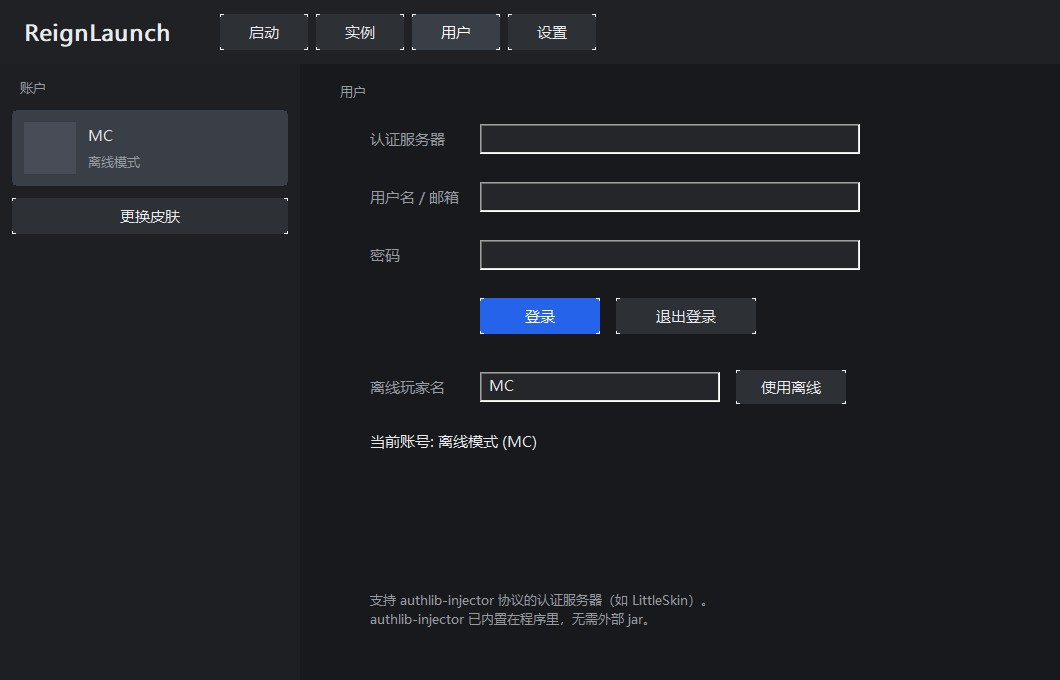
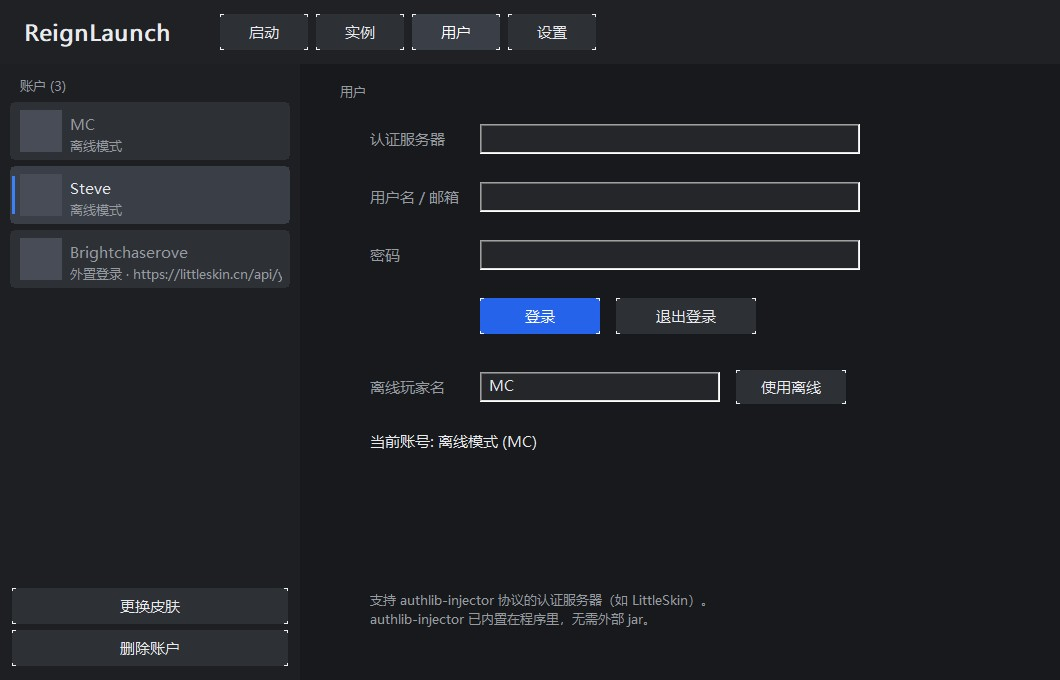
feat: multi-account support (offline + third-party), account list UI

Changed region(s): [[0.0, 0.1544, 0.2802, 0.4324], [0.0934, 0.8647, 0.1868, 0.9882], [0.0311, 0.1235, 0.0623, 0.1544]]

diff --git a/src/ReignLaunch.cpp b/src/ReignLaunch.cpp
@@ -49,7 +49,18 @@ using json = nlohmann::json;
 enum Page { PAGE_LAUNCH = 0, PAGE_USER = 1, PAGE_SETTINGS = 2, PAGE_ABOUT = 3, PAGE_INSTANCES = 4 };
 
 // ============================ 配置 ============================
+struct Account {
+    std::string type;    // offline / thirdparty
+    std::string name;
+    std::string server;
+    std::string token;
+    std::string uuid;
+    std::string skin;    // 该账户的皮肤 PNG
+};
+
 struct Config {
+    std::vector<Account> accounts;
+    int activeAcc = -1;
     std::string gameDir;
     std::string skinPath;   // 当前皮肤 PNG
     int  isoMode = 0;               // 版本隔离：0=隔离所有实例 1=仅模组实例 2=不隔离
@@ -103,7 +114,7 @@ static RECT OverlayCardRect();
 static void ApplyOverlayVisibility();
 
 static HWND hLblServer, hEdServer, hLblUser, hEdUser, hLblPass, hEdPass;
-static HWND hBtnLogin, hBtnLogout, hBtnOffline, hBtnSkin;
+static HWND hBtnLogin, hBtnLogout, hBtnOffline, hBtnSkin, hBtnDelAcc;
 
 static HWND hLblDir, hEdDir, hBtnAutoDir, hBtnBrowseDir, hBtnDirDrop;
 static HWND hLblJava, hEdJava, hBtnAutoJava, hBtnBrowseJava, hBtnJavaDrop;
@@ -225,6 +236,21 @@ static void SaveConfig() {
     j["gameDir"]       = g_cfg.gameDir;
     j["isoMode"] = g_cfg.isoMode;
     j["skinPath"] = g_cfg.skinPath;
+    {
+        json arr = json::array();
+        for (auto& a : g_cfg.accounts) {
+            json o;
+            o["type"]   = a.type;
+            o["name"]   = a.name;
+            o["server"] = a.server;
+            o["token"]  = a.token;
+            o["uuid"]   = a.uuid;
+            o["skin"]   = a.skin;
+            arr.push_back(o);
+        }
+        j["accounts"] = arr;
+        j["activeAcc"] = g_cfg.activeAcc;
+    }
     j["javaPath"]      = g_cfg.javaPath;
     j["maxMemMB"]      = g_cfg.maxMemMB;
     j["playerName"]    = g_cfg.playerName;
@@ -246,11 +272,41 @@ static void LoadConfig() {
         g_cfg.gameDir        = j.value("gameDir", std::string());
     g_cfg.isoMode = j.value("isoMode", 0);
     g_cfg.skinPath = j.value("skinPath", std::string());
+
+    g_cfg.activeAcc = j.value("activeAcc", -1);
+    if (j.contains("accounts") && j["accounts"].is_array()) {
+        for (auto& o : j["accounts"]) {
+            Account a;
+            a.type   = o.value("type", std::string("offline"));
+            a.name   = o.value("name", std::string());
+            a.server = o.value("server", std::string());
+            a.token  = o.value("token", std::string());
+            a.uuid   = o.value("uuid", std::string());
+            a.skin   = o.value("skin", std::string());
+            if (!a.name.empty()) g_cfg.accounts.push_back(a);
+        }
+    }
+
     if (j.contains("versionIsolation"))            // 兼容上一版布尔配置
         g_cfg.isoMode = j.value("versionIsolation", true) ? 0 : 2;
         g_cfg.javaPath       = j.value("javaPath", std::string());
         g_cfg.maxMemMB       = j.value("maxMemMB", 4096);
         g_cfg.playerName     = j.value("playerName", std::string("Steve"));
+    // 账户列表为空则用当前单账号迁移（此时 playerName 已读入）
+    if (g_cfg.accounts.empty()) {
+        std::string nm = (g_cfg.authType == "thirdparty") ? g_cfg.authName : g_cfg.playerName;
+        if (!nm.empty()) {
+            Account a;
+            a.type = g_cfg.authType.empty() ? "offline" : g_cfg.authType;
+            a.name = nm;
+            a.server = g_cfg.authServer;
+            a.token = g_cfg.authToken;
+            a.uuid = g_cfg.authUuid;
+            a.skin = g_cfg.skinPath;
+            g_cfg.accounts.push_back(a);
+            g_cfg.activeAcc = 0;
+        }
+    }
         g_cfg.authType       = j.value("authType", std::string("offline"));
         g_cfg.authServer     = j.value("authServer", std::string());
         g_cfg.authToken      = j.value("authToken", std::string());
@@ -1330,6 +1386,7 @@ static std::string        g_loginErr;
 #define ID_BTN_INSTARROW 1317
 #define ID_BTN_OVCANCEL  1330
 #define ID_BTN_SKIN      1340
+#define ID_BTN_DELACC    1341
 #define ID_BTN_SAVE     1320
 #define ID_BTN_ISO      1321
 
@@ -1455,7 +1512,8 @@ static void LayoutControls() {
         MoveWindow(hBtnOffline, x + Scale(366), y + rowH * 4 + Scale(14), Scale(110), Scale(34), TRUE);
 
         RECT sb = g_ly.sidebar;
-        MoveWindow(hBtnSkin, sb.left + Scale(12), sb.top + Scale(134), (sb.right - sb.left) - Scale(24), Scale(36), TRUE);
+        MoveWindow(hBtnSkin, sb.left + Scale(12), sb.bottom - Scale(92), (sb.right - sb.left) - Scale(24), Scale(36), TRUE);
+        MoveWindow(hBtnDelAcc, sb.left + Scale(12), sb.bottom - Scale(50), (sb.right - sb.left) - Scale(24), Scale(36), TRUE);
     }
 
     // 设置页
@@ -1505,7 +1563,7 @@ static void ShowPage(Page p) {
     ApplyOverlayVisibility();
 
     ShowWindow(hEdServer, U); ShowWindow(hEdUser, U); ShowWindow(hEdPass, U);
-    ShowWindow(hBtnLogin, U); ShowWindow(hBtnLogout, U); ShowWindow(hEdName, U); ShowWindow(hBtnOffline, U); ShowWindow(hBtnSkin, U);
+    ShowWindow(hBtnLogin, U); ShowWindow(hBtnLogout, U); ShowWindow(hEdName, U); ShowWindow(hBtnOffline, U); ShowWindow(hBtnSkin, U); ShowWindow(hBtnDelAcc, U);
 
     ShowWindow(hEdDir, S); ShowWindow(hBtnAutoDir, S); ShowWindow(hBtnBrowseDir, S); ShowWindow(hBtnDirDrop, S);
     ShowWindow(hEdJava, S); ShowWindow(hBtnAutoJava, S); ShowWindow(hBtnBrowseJava, S); ShowWindow(hBtnJavaDrop, S);
@@ -1587,6 +1645,48 @@ static bool ApplySkin(const std::string& srcPath, std::wstring& err) {
     SaveConfig();
     LoadSkinBitmap();
     return true;
+}
+// ---- 账户切换 ----
+static void ApplyActiveAccount() {
+    if (g_cfg.activeAcc < 0 || g_cfg.activeAcc >= (int)g_cfg.accounts.size()) return;
+    Account& a = g_cfg.accounts[g_cfg.activeAcc];
+    g_cfg.authType   = a.type;
+    g_cfg.authServer = a.server;
+    g_cfg.authToken  = a.token;
+    g_cfg.authUuid   = a.uuid;
+    if (a.type == "thirdparty") g_cfg.authName = a.name;
+    else                        g_cfg.playerName = a.name;
+    g_cfg.skinPath = a.skin;
+}
+
+static void CaptureActiveAccount() {
+    if (g_cfg.activeAcc < 0 || g_cfg.activeAcc >= (int)g_cfg.accounts.size()) return;
+    Account& a = g_cfg.accounts[g_cfg.activeAcc];
+    a.type   = g_cfg.authType;
+    a.server = g_cfg.authServer;
+    a.token  = g_cfg.authToken;
+    a.uuid   = g_cfg.authUuid;
+    a.skin   = g_cfg.skinPath;
+    if (a.type == "thirdparty") a.name = g_cfg.authName;
+    else                        a.name = g_cfg.playerName;
+}
+
+// 找一个同名账户，找不到就新建；返回下标
+static int UpsertAccount(const std::string& type, const std::string& name,
+                         const std::string& server = "", const std::string& token = "",
+                         const std::string& uuid = "") {
+    for (size_t i = 0; i < g_cfg.accounts.size(); ++i) {
+        if (g_cfg.accounts[i].name == name && g_cfg.accounts[i].type == type) {
+            g_cfg.accounts[i].server = server;
+            g_cfg.accounts[i].token  = token;
+            g_cfg.accounts[i].uuid   = uuid;
+            return (int)i;
+        }
+    }
+    Account a;
+    a.type = type; a.name = name; a.server = server; a.token = token; a.uuid = uuid;
+    g_cfg.accounts.push_back(a);
+    return (int)g_cfg.accounts.size() - 1;
 }
 // ---------------- 检测候选列表 ----------------
 struct Cand { std::string path; std::string label; };
@@ -2009,29 +2109,48 @@ static void PaintMain(HDC dc, int w, int h) {
         }
     }
     else if (g_page == PAGE_USER) {
-        // 左侧账户卡片
+        // 左侧账户列表
         {
             RECT sb = g_ly.sidebar;
             HBRUSH bg = CreateSolidBrush(RGB(30, 31, 35));
             FillRect(dc, &sb, bg);
             DeleteObject(bg);
 
-            RECT lb = { sb.left + Scale(20), sb.top + Scale(12), sb.right, sb.top + Scale(36) };
-            DrawTextIn(dc, L"账户", lb, C_DIM, g_fSmall);
+            RECT lb = { sb.left + Scale(20), sb.top + Scale(10), sb.right, sb.top + Scale(34) };
+            DrawTextIn(dc, L"账户 (" + std::to_wstring(g_cfg.accounts.size()) + L")", lb, C_DIM, g_fSmall);
 
-            RECT card = { sb.left + Scale(12), sb.top + Scale(46), sb.right - Scale(12), sb.top + Scale(46) + Scale(76) };
-            FillRoundRect(dc, card, 8, C_CARD_SEL);
-            DrawAvatar(dc, card.left + Scale(12), card.top + Scale(12), Scale(52));
+            int itemH = Scale(64);
+            int y = sb.top + Scale(38);
+            for (size_t i = 0; i < g_cfg.accounts.size(); ++i) {
+                RECT card = { sb.left + Scale(10), y, sb.right - Scale(10), y + itemH - Scale(6) };
+                bool sel = ((int)i == g_cfg.activeAcc);
+                FillRoundRect(dc, card, 8, sel ? C_CARD_SEL : C_CARD);
 
-            std::wstring nm = U8ToW(CurrentPlayerName());
-            RECT n1 = { card.left + Scale(76), card.top + Scale(12), card.right - Scale(8), card.top + Scale(38) };
-            DrawTextIn(dc, nm, n1, C_TEXT, g_fUi);
+                DrawAvatar(dc, card.left + Scale(10), card.top + Scale(8), Scale(42));
 
-            std::wstring ty = (g_cfg.authType == "thirdparty")
-                ? (L"外置登录 · " + U8ToW(g_cfg.authServer))
-                : L"离线模式";
-            RECT n2 = { card.left + Scale(76), card.top + Scale(40), card.right - Scale(8), card.top + Scale(64) };
-            DrawTextIn(dc, ty, n2, C_DIM, g_fSmall);
+                RECT n1 = { card.left + Scale(60), card.top + Scale(10), card.right - Scale(8), card.top + Scale(34) };
+                DrawTextIn(dc, U8ToW(g_cfg.accounts[i].name), n1, sel ? C_TEXT : C_DIM, g_fUi);
+
+                std::wstring ty = (g_cfg.accounts[i].type == "thirdparty")
+                    ? (L"外置登录 · " + U8ToW(g_cfg.accounts[i].server))
+                    : L"离线模式";
+                RECT n2 = { card.left + Scale(60), card.top + Scale(34), card.right - Scale(8), card.top + Scale(54) };
+                DrawTextIn(dc, ty, n2, C_DIM, g_fSmall);
+
+                if (sel) {
+                    RECT bar = { card.left + Scale(2), card.top + Scale(10), card.left + Scale(5), card.bottom - Scale(10) };
+                    HBRUSH b = CreateSolidBrush(C_ACCENT2);
+                    FillRect(dc, &bar, b);
+                    DeleteObject(b);
+                }
+                y += itemH;
+            }
+
+            if (g_cfg.accounts.empty()) {
+                RECT e = { sb.left + Scale(16), sb.top + Scale(44), sb.right - Scale(16), sb.top + Scale(120) };
+                DrawTextIn(dc, L"还没有账户\n在右边填名字后点「使用离线」", e, C_DIM, g_fSmall,
+                           DT_LEFT | DT_TOP | DT_WORDBREAK);
+            }
         }
 
         int panelW = Scale(620);
@@ -2155,6 +2274,9 @@ static void ShowErrorWindow() {
 static void LoginThread(std::string srv, std::string user, std::string pass) {
     AuthResult r = YggdrasilLogin(srv, user, pass);
     if (r.ok) {
+        CaptureActiveAccount();
+        int accIdx = UpsertAccount("thirdparty", r.name, TrimSlash(srv), r.accessToken, r.uuid);
+        g_cfg.activeAcc = accIdx;
         g_cfg.authType = "thirdparty";
         g_cfg.authServer = TrimSlash(srv);
         g_cfg.authToken = r.accessToken;
@@ -2348,6 +2470,7 @@ static LRESULT CALLBACK MainProc(HWND hwnd, UINT msg, WPARAM wp, LPARAM lp) {
         hBtnLogout= MakeBtn(hwnd, L"退出登录", ID_BTN_LOGOUT);
         hBtnOffline = MakeBtn(hwnd, L"使用离线", ID_BTN_OFFLINE);
         hBtnSkin    = MakeBtn(hwnd, L"更换皮肤", ID_BTN_SKIN);
+        hBtnDelAcc  = MakeBtn(hwnd, L"删除账户", ID_BTN_DELACC);
 
         hEdDir  = MakeEdit(hwnd, ID_ED_DIR, U8ToW(g_cfg.gameDir).c_str());
         hEdJava = MakeEdit(hwnd, ID_ED_JAVA, U8ToW(g_cfg.javaPath).c_str());
@@ -2484,6 +2607,25 @@ static LRESULT CALLBACK MainProc(HWND hwnd, UINT msg, WPARAM wp, LPARAM lp) {
             return 0;
         }
 
+        if (g_page == PAGE_USER) {
+            RECT sb = g_ly.sidebar;
+            int itemH = Scale(64);
+            int top = sb.top + Scale(38);
+            if (pt.x >= sb.left && pt.x <= sb.right && pt.y >= top) {
+                int idx = (pt.y - top) / itemH;
+                if (idx >= 0 && idx < (int)g_cfg.accounts.size() && idx != g_cfg.activeAcc) {
+                    CaptureActiveAccount();
+                    g_cfg.activeAcc = idx;
+                    ApplyActiveAccount();
+                    LoadSkinBitmap();
+                    SaveConfig();
+                    g_status = L"已切换到账户：" + U8ToW(g_cfg.accounts[idx].name);
+                    InvalidateRect(hwnd, nullptr, TRUE);
+                }
+                return 0;
+            }
+        }
+
         if (g_page != PAGE_LAUNCH) return 0;
 
         // 版本列表点击
@@ -2584,7 +2726,32 @@ static LRESULT CALLBACK MainProc(HWND hwnd, UINT msg, WPARAM wp, LPARAM lp) {
             }
             break;
 
-        case ID_BTN_SKIN: {
+        case ID_BTN_DELACC: {
+        if (g_cfg.activeAcc < 0 || g_cfg.activeAcc >= (int)g_cfg.accounts.size()) {
+            g_status = L"没有可删除的账户";
+            InvalidateRect(hwnd, nullptr, TRUE);
+            break;
+        }
+        g_cfg.accounts.erase(g_cfg.accounts.begin() + g_cfg.activeAcc);
+        if (g_cfg.accounts.empty()) {
+            g_cfg.activeAcc = -1;
+            g_cfg.authType = "offline";
+            g_cfg.authToken.clear();
+            g_cfg.authUuid.clear();
+            g_cfg.skinPath.clear();
+            LoadSkinBitmap();
+        } else {
+            if (g_cfg.activeAcc >= (int)g_cfg.accounts.size()) g_cfg.activeAcc = (int)g_cfg.accounts.size() - 1;
+            ApplyActiveAccount();
+            LoadSkinBitmap();
+        }
+        SaveConfig();
+        g_status = L"账户已删除";
+        InvalidateRect(hwnd, nullptr, TRUE);
+        break;
+    }
+
+    case ID_BTN_SKIN: {
         OPENFILENAMEW ofn{};
         wchar_t file[MAX_PATH] = L"";
         ofn.lStructSize = sizeof(ofn);
@@ -2624,14 +2791,19 @@ static LRESULT CALLBACK MainProc(HWND hwnd, UINT msg, WPARAM wp, LPARAM lp) {
             break;
         }
 
-        case ID_BTN_OFFLINE:
-            g_cfg.authType = "offline";
-            g_cfg.playerName = WToU8(CtlText(hEdName));
+        case ID_BTN_OFFLINE: {
+            std::string nm = WToU8(CtlText(hEdName));
+            if (nm.empty()) nm = "玩家" + std::to_string(g_cfg.accounts.size() + 1);
+            CaptureActiveAccount();
+            int idx = UpsertAccount("offline", nm);
+            g_cfg.activeAcc = idx;
+            ApplyActiveAccount();
             SaveConfig();
             g_loginState = 0;
-            g_status = L"已切换到离线账号：" + U8ToW(g_cfg.playerName);
-            InvalidateRect(hwnd, nullptr, FALSE);
+            g_status = L"已切换到离线账户：" + U8ToW(nm);
+            InvalidateRect(hwnd, nullptr, TRUE);
             break;
+        }
 
         case ID_BTN_LOGOUT:
             g_cfg.authType = "offline";
@@ -2867,6 +3039,8 @@ int WINAPI WinMain(HINSTANCE hInst, HINSTANCE, LPSTR lpCmdLine, int) {
     }
     g_dataDir = WToU8(fs::path(g_cfgPath).parent_path().wstring());
     LoadConfig();
+    ApplyActiveAccount();
+
 
     Gdiplus::GdiplusStartupInput gpsi;
     g_gpOk = (Gdiplus::GdiplusStartup(&g_gpToken, &gpsi, nullptr) == Gdiplus::Ok);
